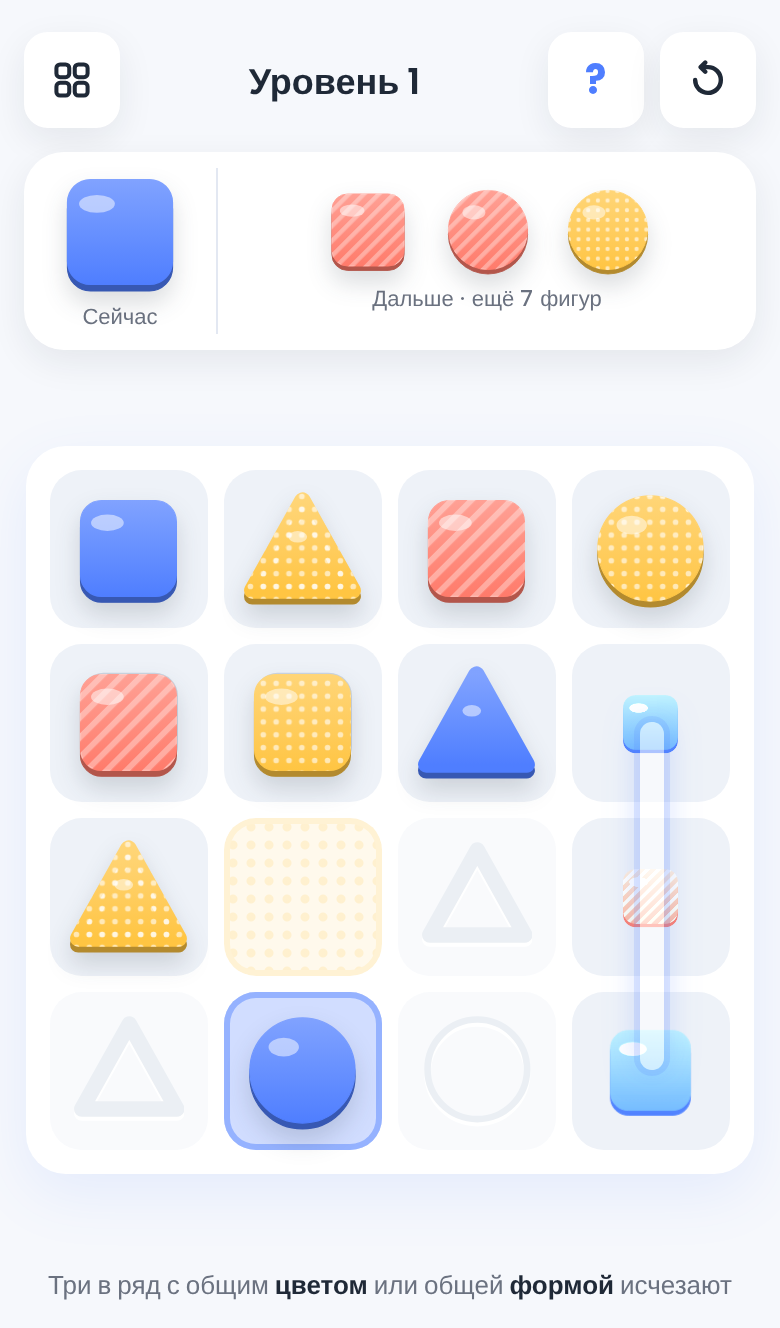
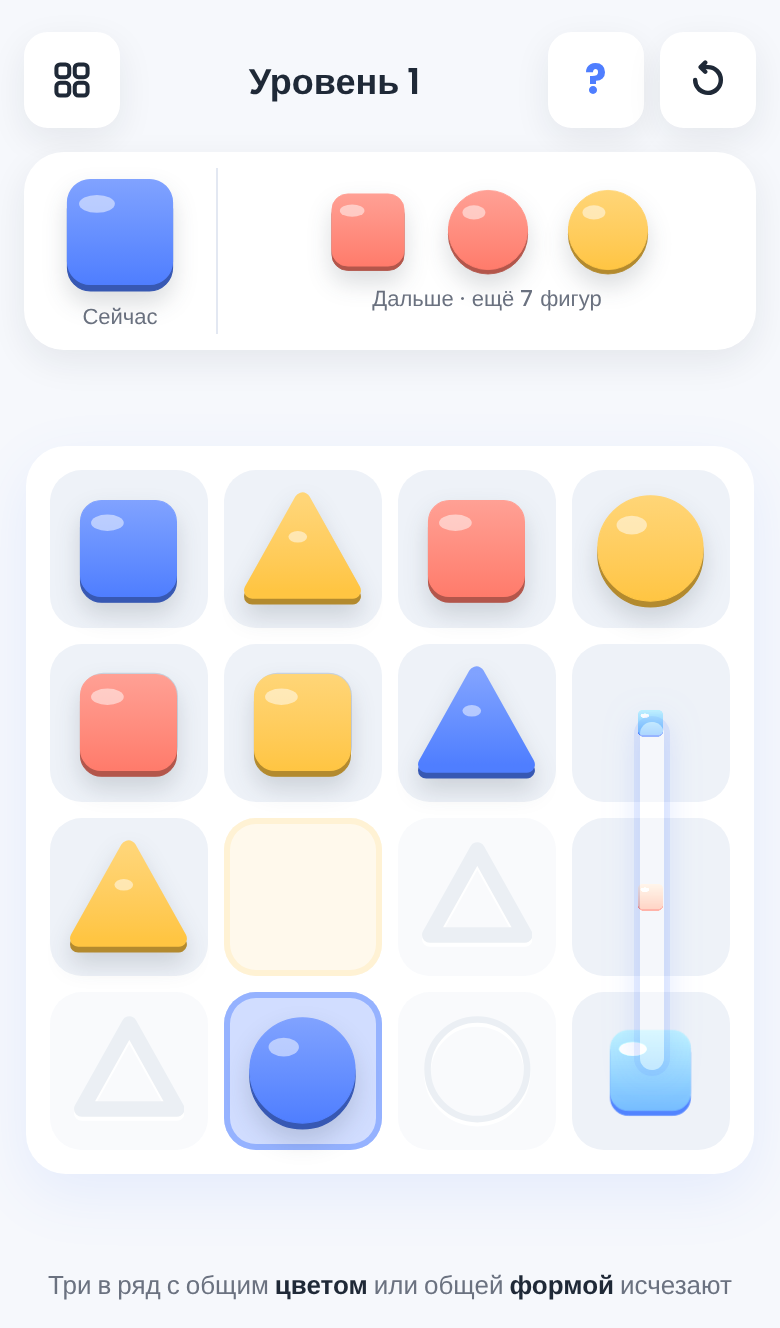
Tight Shelf: чистые цвета без узоров
Решение автора: узоры (коралловый в полоску, жёлтый в точку) убраны с фигур
и клеток-правил. В спеке §7.1 записано как осознанный риск для второго
канала цвета. Скетч, иконки и снимки прототипа перерисованы.

Claude-Session: https://claude.ai/code/session_01FXS5yBDGu7nHSfoQ9jiRoX

diff --git a/UI Design/prototypes/tight-shelf/game-screen.html b/UI Design/prototypes/tight-shelf/game-screen.html
@@ -32,7 +32,7 @@
   .next .row { display: flex; gap: 16px; align-items: center; }
   .sep { width: 1px; align-self: stretch; background: var(--ui-border); }
 
-  /* фигура: силуэт — форма, заливка — цвет с узором */
+  /* фигура: силуэт — форма, заливка — чистый цвет */
   .piece { width: var(--s, 56px); height: var(--s, 56px); display: block; filter: drop-shadow(0 7px 7px rgba(31, 41, 55, 0.16)); overflow: visible; }
 
   /* поле 4×4 */
@@ -42,11 +42,11 @@
     background: var(--ui-surface-muted);
     display: grid; place-items: center; position: relative;
   }
-  /* правило-цвет: клетка подкрашена цветом, с тем же узором */
-  .cell.rB, .cell.rY, .cell.rC { background: var(--pat, none), color-mix(in srgb, var(--c) 26%, white); box-shadow: inset 0 0 0 3px color-mix(in srgb, var(--c) 60%, white); }
+  /* правило-цвет: клетка подкрашена цветом */
+  .cell.rB, .cell.rY, .cell.rC { background: color-mix(in srgb, var(--c) 26%, white); box-shadow: inset 0 0 0 3px color-mix(in srgb, var(--c) 60%, white); }
   .cell.rB { --c: var(--ui-blue); }
-  .cell.rY { --c: var(--ui-yellow); --pat: radial-gradient(circle, color-mix(in srgb, var(--c) 55%, transparent) 0 2px, transparent 2.5px) 0 0 / 9px 9px; }
-  .cell.rC { --c: var(--ui-coral); --pat: repeating-linear-gradient(135deg, color-mix(in srgb, var(--c) 30%, transparent) 0 4px, transparent 4px 10px); }
+  .cell.rY { --c: var(--ui-yellow); }
+  .cell.rC { --c: var(--ui-coral); }
   /* правило-форма: выдавленный контур, фигура в него «вкладывается» */
   .cell .emboss { width: 70%; height: 70%; fill: none; stroke: var(--ui-disabled); stroke-width: 6; stroke-dasharray: none; stroke-linejoin: round; filter: drop-shadow(0 2px 0 #fff); }
   /* джокер: точка, как «Пустая» клетка кита */
@@ -60,14 +60,12 @@
 </style>
 </head>
 <body>
-<!-- общие градиенты и узоры фигур: цвет из токенов, узор — белый полупрозрачный -->
+<!-- общие градиенты фигур: чистый цвет из токенов -->
 <svg width="0" height="0" style="position:absolute">
   <defs>
     <linearGradient id="gB" x1="0" y1="0" x2="0" y2="1"><stop offset="0" style="stop-color:color-mix(in srgb, var(--ui-blue) 72%, white)"/><stop offset="1" style="stop-color:var(--ui-blue)"/></linearGradient>
     <linearGradient id="gY" x1="0" y1="0" x2="0" y2="1"><stop offset="0" style="stop-color:color-mix(in srgb, var(--ui-yellow) 72%, white)"/><stop offset="1" style="stop-color:var(--ui-yellow)"/></linearGradient>
     <linearGradient id="gC" x1="0" y1="0" x2="0" y2="1"><stop offset="0" style="stop-color:color-mix(in srgb, var(--ui-coral) 72%, white)"/><stop offset="1" style="stop-color:var(--ui-coral)"/></linearGradient>
-    <pattern id="pC" width="12" height="12" patternUnits="userSpaceOnUse" patternTransform="rotate(45)"><rect width="5" height="12" fill="rgba(255,255,255,.34)"/></pattern>
-    <pattern id="pY" width="11" height="11" patternUnits="userSpaceOnUse"><circle cx="5.5" cy="5.5" r="2.4" fill="rgba(255,255,255,.6)"/></pattern>
   </defs>
 </svg>
 
@@ -93,15 +91,13 @@
     t: (a) => `<path d="M50 9 L93 86 L7 86 Z" stroke-linejoin="round" stroke-width="14" ${a}/>`,
   };
   const HIGHLIGHT = { o: [34, 30, 13, 8], s: [32, 28, 14, 7], t: [46, 40, 8, 5] };
-  const PAT = { B: '', Y: 'url(#pY)', C: 'url(#pC)' };
 
   function piece(p, size) {
     const [c, s] = p;
     const edge = SHAPE[s](`transform="translate(0 5)" fill="color-mix(in srgb, var(--ui-${{ B: 'blue', Y: 'yellow', C: 'coral' }[c]}) 70%, black)" stroke="color-mix(in srgb, var(--ui-${{ B: 'blue', Y: 'yellow', C: 'coral' }[c]}) 70%, black)"`);
     const body = SHAPE[s](`fill="url(#g${c})" stroke="url(#g${c})"`);
-    const pat = PAT[c] ? SHAPE[s](`fill="${PAT[c]}" stroke="${PAT[c]}"`) : '';
     const [hx, hy, rx, ry] = HIGHLIGHT[s];
-    return `<svg class="piece" viewBox="0 0 100 100" style="${size ? `--s:${size}px` : ''}">${edge}${body}${pat}<ellipse cx="${hx}" cy="${hy}" rx="${rx}" ry="${ry}" fill="rgba(255,255,255,.5)"/></svg>`;
+    return `<svg class="piece" viewBox="0 0 100 100" style="${size ? `--s:${size}px` : ''}">${edge}${body}<ellipse cx="${hx}" cy="${hy}" rx="${rx}" ry="${ry}" fill="rgba(255,255,255,.5)"/></svg>`;
   }
   const outline = (s) => `<svg viewBox="0 0 100 100" class="emboss">${SHAPE[s]('')}</svg>`;
 

diff --git a/apps/tight-shelf/src/ui/pieces.ts b/apps/tight-shelf/src/ui/pieces.ts
@@ -1,7 +1,6 @@
 import type { Color, Piece, Rule, Shape } from '../engine/types.ts';
 
-// Фигура и клетка-правило (§7, §7.1): силуэт — форма, заливка — цвет из токенов,
-// узор — второй канал цвета (синий гладкий, коралловый в полоску, жёлтый в точку).
+// Фигура и клетка-правило (§7, §7.1): силуэт — форма, заливка — чистый цвет из токенов.
 
 /** Силуэты в поле 100×100, подобраны на глаз под одинаковый визуальный вес (§7.1). */
 const SHAPE: Record<Shape, (attrs: string) => string> = {
@@ -11,11 +10,10 @@ const SHAPE: Record<Shape, (attrs: string) => string> = {
 };
 const HIGHLIGHT: Record<Shape, readonly [number, number, number, number]> = { o: [34, 30, 13, 8], s: [32, 28, 14, 7], t: [46, 40, 8, 5] };
 const TOKEN: Record<Color, string> = { B: 'blue', Y: 'yellow', C: 'coral' };
-const PATTERN: Record<Color, string> = { B: '', Y: 'url(#ts-pY)', C: 'url(#ts-pC)' };
 export const COLOR_NAME: Record<Color, string> = { B: 'синий', Y: 'жёлтый', C: 'коралловый' };
 export const SHAPE_NAME: Record<Shape, string> = { o: 'круг', s: 'квадрат', t: 'треугольник' };
 
-/** Градиенты и узоры фигур — один раз на документ. */
+/** Градиенты фигур — один раз на документ. */
 export function ensureDefs(): void {
   if (document.getElementById('ts-defs') !== null) return;
   const stops = (c: Color): string =>
@@ -24,8 +22,6 @@ export function ensureDefs(): void {
     'afterbegin',
     `<svg id="ts-defs" width="0" height="0" style="position:absolute" aria-hidden="true"><defs>
       ${stops('B')}${stops('Y')}${stops('C')}
-      <pattern id="ts-pC" width="12" height="12" patternUnits="userSpaceOnUse" patternTransform="rotate(45)"><rect width="5" height="12" fill="rgba(255,255,255,.34)"/></pattern>
-      <pattern id="ts-pY" width="11" height="11" patternUnits="userSpaceOnUse"><circle cx="5.5" cy="5.5" r="2.4" fill="rgba(255,255,255,.6)"/></pattern>
     </defs></svg>`,
   );
 }
@@ -37,9 +33,8 @@ export function pieceSvg(piece: Piece, cls = ''): string {
   const dark = `color-mix(in srgb, var(--ui-${TOKEN[c]}) 70%, black)`;
   const edge = SHAPE[s](`transform="translate(0 5)" fill="${dark}" stroke="${dark}"`);
   const body = SHAPE[s](`fill="url(#ts-g${c})" stroke="url(#ts-g${c})"`);
-  const pat = PATTERN[c] === '' ? '' : SHAPE[s](`fill="${PATTERN[c]}" stroke="${PATTERN[c]}"`);
   const [hx, hy, rx, ry] = HIGHLIGHT[s];
-  return `<svg class="piece ${cls}" viewBox="0 0 100 100" role="img" aria-label="${COLOR_NAME[c]} ${SHAPE_NAME[s]}" data-piece="${piece}">${edge}${body}${pat}<ellipse cx="${String(hx)}" cy="${String(hy)}" rx="${String(rx)}" ry="${String(ry)}" fill="rgba(255,255,255,.5)"/></svg>`;
+  return `<svg class="piece ${cls}" viewBox="0 0 100 100" role="img" aria-label="${COLOR_NAME[c]} ${SHAPE_NAME[s]}" data-piece="${piece}">${edge}${body}<ellipse cx="${String(hx)}" cy="${String(hy)}" rx="${String(rx)}" ry="${String(ry)}" fill="rgba(255,255,255,.5)"/></svg>`;
 }
 
 /** Выдавленный контур для клетки-правила формы: фигура в него «вкладывается». */

diff --git a/apps/tight-shelf/src/styles.css b/apps/tight-shelf/src/styles.css
@@ -169,7 +169,7 @@ svg { display: block; }
 @keyframes shake-x { 20% { transform: translateX(-6px); } 40% { transform: translateX(6px); } 60% { transform: translateX(-4px); } 80% { transform: translateX(3px); } }
 
 
-/* ---------- фигура: силуэт — форма, заливка — цвет с узором (§7.1) ---------- */
+/* ---------- фигура: силуэт — форма, заливка — чистый цвет (§7.1) ---------- */
 .piece { display: block; overflow: visible; filter: drop-shadow(0 6px 6px rgba(31, 41, 55, 0.16)); }
 
 /* ---------- игровой экран: шапка, очередь, поле, подсказка ---------- */
@@ -191,11 +191,11 @@ svg { display: block; }
 .stage { flex: 1; min-height: 0; display: grid; place-items: center; }
 .board { position: relative; background: var(--ui-surface); border-radius: var(--ui-radius-card); box-shadow: var(--ui-shadow-card); padding: 12px; display: grid; grid-template-columns: repeat(4, var(--cell)); gap: 8px; }
 .cell { position: relative; width: var(--cell); height: var(--cell); border-radius: var(--ui-radius-large); background: var(--ui-surface-muted); display: grid; place-items: center; cursor: pointer; transition: opacity 140ms ease; }
-/* правило-цвет: подкраска, рамка и узор цвета */
-.cell.rB, .cell.rY, .cell.rC { background: var(--pat, none), color-mix(in srgb, var(--c) 26%, white); box-shadow: inset 0 0 0 3px color-mix(in srgb, var(--c) 60%, white); }
+/* правило-цвет: подкраска и рамка цвета */
+.cell.rB, .cell.rY, .cell.rC { background: color-mix(in srgb, var(--c) 26%, white); box-shadow: inset 0 0 0 3px color-mix(in srgb, var(--c) 60%, white); }
 .cell.rB { --c: var(--ui-blue); }
-.cell.rY { --c: var(--ui-yellow); --pat: radial-gradient(circle, color-mix(in srgb, var(--c) 55%, transparent) 0 2px, transparent 2.5px) 0 0 / 9px 9px; }
-.cell.rC { --c: var(--ui-coral); --pat: repeating-linear-gradient(135deg, color-mix(in srgb, var(--c) 30%, transparent) 0 4px, transparent 4px 10px); }
+.cell.rY { --c: var(--ui-yellow); }
+.cell.rC { --c: var(--ui-coral); }
 /* правило-форма: выдавленный контур */
 .cell .emboss { position: absolute; width: 70%; height: 70%; fill: none; stroke: var(--ui-disabled); stroke-width: 6; stroke-linejoin: round; filter: drop-shadow(0 2px 0 #fff); }
 /* джокер: точка, как «Пустая» клетка кита */

diff --git a/apps/tight-shelf/tools/brand.html b/apps/tight-shelf/tools/brand.html
@@ -28,8 +28,6 @@
     <linearGradient id="gB" x1="0" y1="0" x2="0" y2="1"><stop offset="0" style="stop-color:color-mix(in srgb, var(--ui-blue) 72%, white)"/><stop offset="1" style="stop-color:var(--ui-blue)"/></linearGradient>
     <linearGradient id="gY" x1="0" y1="0" x2="0" y2="1"><stop offset="0" style="stop-color:color-mix(in srgb, var(--ui-yellow) 72%, white)"/><stop offset="1" style="stop-color:var(--ui-yellow)"/></linearGradient>
     <linearGradient id="gC" x1="0" y1="0" x2="0" y2="1"><stop offset="0" style="stop-color:color-mix(in srgb, var(--ui-coral) 72%, white)"/><stop offset="1" style="stop-color:var(--ui-coral)"/></linearGradient>
-    <pattern id="pC" width="12" height="12" patternUnits="userSpaceOnUse" patternTransform="rotate(45)"><rect width="5" height="12" fill="rgba(255,255,255,.34)"/></pattern>
-    <pattern id="pY" width="11" height="11" patternUnits="userSpaceOnUse"><circle cx="5.5" cy="5.5" r="2.4" fill="rgba(255,255,255,.6)"/></pattern>
   </defs>
 </svg>
 <div id="icon"><div class="board" data-hero></div></div>
@@ -50,12 +48,11 @@
   };
   const HL = { o: [34, 30, 13, 8], s: [32, 28, 14, 7], t: [46, 40, 8, 5] };
   const TOK = { B: 'blue', Y: 'yellow', C: 'coral' };
-  const PAT = { B: '', Y: 'url(#pY)', C: 'url(#pC)' };
   const piece = (p) => {
     const [c, s] = p;
     const dark = `color-mix(in srgb, var(--ui-${TOK[c]}) 70%, black)`;
     const [hx, hy, rx, ry] = HL[s];
-    return `<svg class="piece" viewBox="0 0 100 100">${SHAPE[s](`transform="translate(0 5)" fill="${dark}" stroke="${dark}"`)}${SHAPE[s](`fill="url(#g${c})" stroke="url(#g${c})"`)}${PAT[c] ? SHAPE[s](`fill="${PAT[c]}" stroke="${PAT[c]}"`) : ''}<ellipse cx="${hx}" cy="${hy}" rx="${rx}" ry="${ry}" fill="rgba(255,255,255,.5)"/></svg>`;
+    return `<svg class="piece" viewBox="0 0 100 100">${SHAPE[s](`transform="translate(0 5)" fill="${dark}" stroke="${dark}"`)}${SHAPE[s](`fill="url(#g${c})" stroke="url(#g${c})"`)}<ellipse cx="${hx}" cy="${hy}" rx="${rx}" ry="${ry}" fill="rgba(255,255,255,.5)"/></svg>`;
   };
   const HERO = ['Bo', 'Ys', 'Ct', 'Yt', 'Bs', 'Co', 'Cs', null, 'Bt'];
   for (const board of document.querySelectorAll('[data-hero]')) {

diff --git a/specs/06-tight-shelf.md b/specs/06-tight-shelf.md
@@ -279,10 +279,10 @@ type Action =
 # 7. Обратная связь и обучение
 
 - **Фигура.** Силуэт — форма: скруглённый квадрат, круг или треугольник со
-  скруглёнными углами. Заливка — цвет с узором цвета (§7.1), блик сверху,
-  тёмная кромка снизу. Знаков на фигуре нет.
-- **Правило клетки.** Цвет — клетка подкрашена этим цветом, с рамкой и
-  узором цвета. Форма — на серой клетке выдавленный контур круга, квадрата
+  скруглёнными углами. Заливка — чистый цвет (§7.1), блик сверху, тёмная
+  кромка снизу. Знаков и узоров на фигуре нет.
+- **Правило клетки.** Цвет — клетка подкрашена этим цветом, с рамкой того
+  же цвета. Форма — на серой клетке выдавленный контур круга, квадрата
   или треугольника: фигура этой формы в него «вкладывается». Джокер — серая
   клетка с точкой, как «Пустая» клетка кита.
 - **Доступное действие.** Пустые клетки, куда текущая фигура не встаёт,
@@ -323,8 +323,7 @@ type Action =
 ![Игровой экран](../UI%20Design/prototypes/tight-shelf/game-screen.png)
 
 Скетч — `UI Design/prototypes/tight-shelf/game-screen.html` (390×664,
-уровень 3, середина партии). Рядом тот же экран в оттенках серого,
-`game-screen-gray.png`: проверка второго канала цвета.
+уровень 3, середина партии).
 
 Сверху вниз:
 
@@ -353,11 +352,16 @@ type Action =
 скруглением углов 14. Треугольник крупнее, иначе он выглядит меньше
 соседей.
 
-**Второй канал к цвету — узор.** Скетч в сером показал: синий и коралловый
-без узора сливаются. Поэтому синий — гладкий, коралловый — в косую полоску,
-жёлтый — в точку. Тот же узор на подкрашенных клетках-правилах. Узор —
-белый полупрозрачный поверх цвета из токенов, новых цветов нет. Форма
-передаётся силуэтом, цвет формы не кодирует.
+**Цвета чистые, без второго канала (решение автора 2026-09-28).** Сначала у
+цвета был узор: коралловый в полоску, жёлтый в точку, потому что в оттенках
+серого синий и коралловый сливаются. Автор убрал узоры: «оставь только
+чистые цвета». Цвета — `--ui-blue`, `--ui-yellow`, `--ui-coral` (красный в
+ките — коралловый, `--ui-danger` оставлен за поражением). Это осознанный
+риск: игроку, который плохо различает синий и красный по светлоте, цвет
+придётся угадывать. На красно-зелёный дальтонизм тройка синий / жёлтый /
+красный реагирует слабо, так что риск умеренный. Если на тесте кто-то
+спутает цвета, узор возвращается одной правкой в `src/ui/pieces.ts`. Форма
+передаётся силуэтом, цвет форму не кодирует.
 
 **Главный экран.** Арта автора пока нет. Вместо него — композиция из фигур
 игры: поле 3×3, по диагонали которого пробегает полоса синей линии, под ним

diff --git a/UI Design/prototypes/tight-shelf/README.md b/UI Design/prototypes/tight-shelf/README.md
@@ -5,9 +5,6 @@
 - `game-screen.html` → `game-screen.png` — скетч игрового экрана для §7.1,
   390×664: уровень 3, середина партии, текущая фигура — синий треугольник.
   Клетки, куда он не встаёт, приглушены.
-- `game-screen-gray.png` — тот же экран в оттенках серого (`game-screen.html#gray`):
-  проверка второго канала цвета. Без узора синий и коралловый сливаются,
-  с узором — различимы.
 
 Снимки собранного прототипа `apps/tight-shelf` (пересобрать:
 `npm run build && npx tsx tools/make-screens.ts` в папке игры):
@@ -25,12 +22,13 @@
   треугольник со скруглёнными углами), заливка — градиент от цвета, тёмная
   кромка снизу, блик сверху. Размеры подобраны на глаз под одинаковый вес:
   треугольник крупнее квадрата;
-- **узор цвета** — белый полупрозрачный поверх цвета: синий гладкий,
-  коралловый в косую полоску, жёлтый в точку;
-- **клетка-правило цвета** — подкраска 26% цвета, рамка 60% цвета, тот же узор;
+- **клетка-правило цвета** — подкраска 26% цвета, рамка 60% цвета;
 - **клетка-правило формы** — `--ui-surface-muted` с выдавленным контуром
   того же силуэта цвета `--ui-disabled`: фигура в него «вкладывается»;
 - **джокер** — клетка `--ui-surface-muted` с точкой, как «Пустая» клетка кита.
+
+Цвета чистые: узоры (коралловый в полоску, жёлтый в точку) автор убрал
+2026-09-28, см. §7.1 спеки.
 
 История: сначала фишки были шарами с белым знаком формы; автор заменил их
 фигурами 2026-09-28. `playable.html` — лабораторный прототип первой версии
